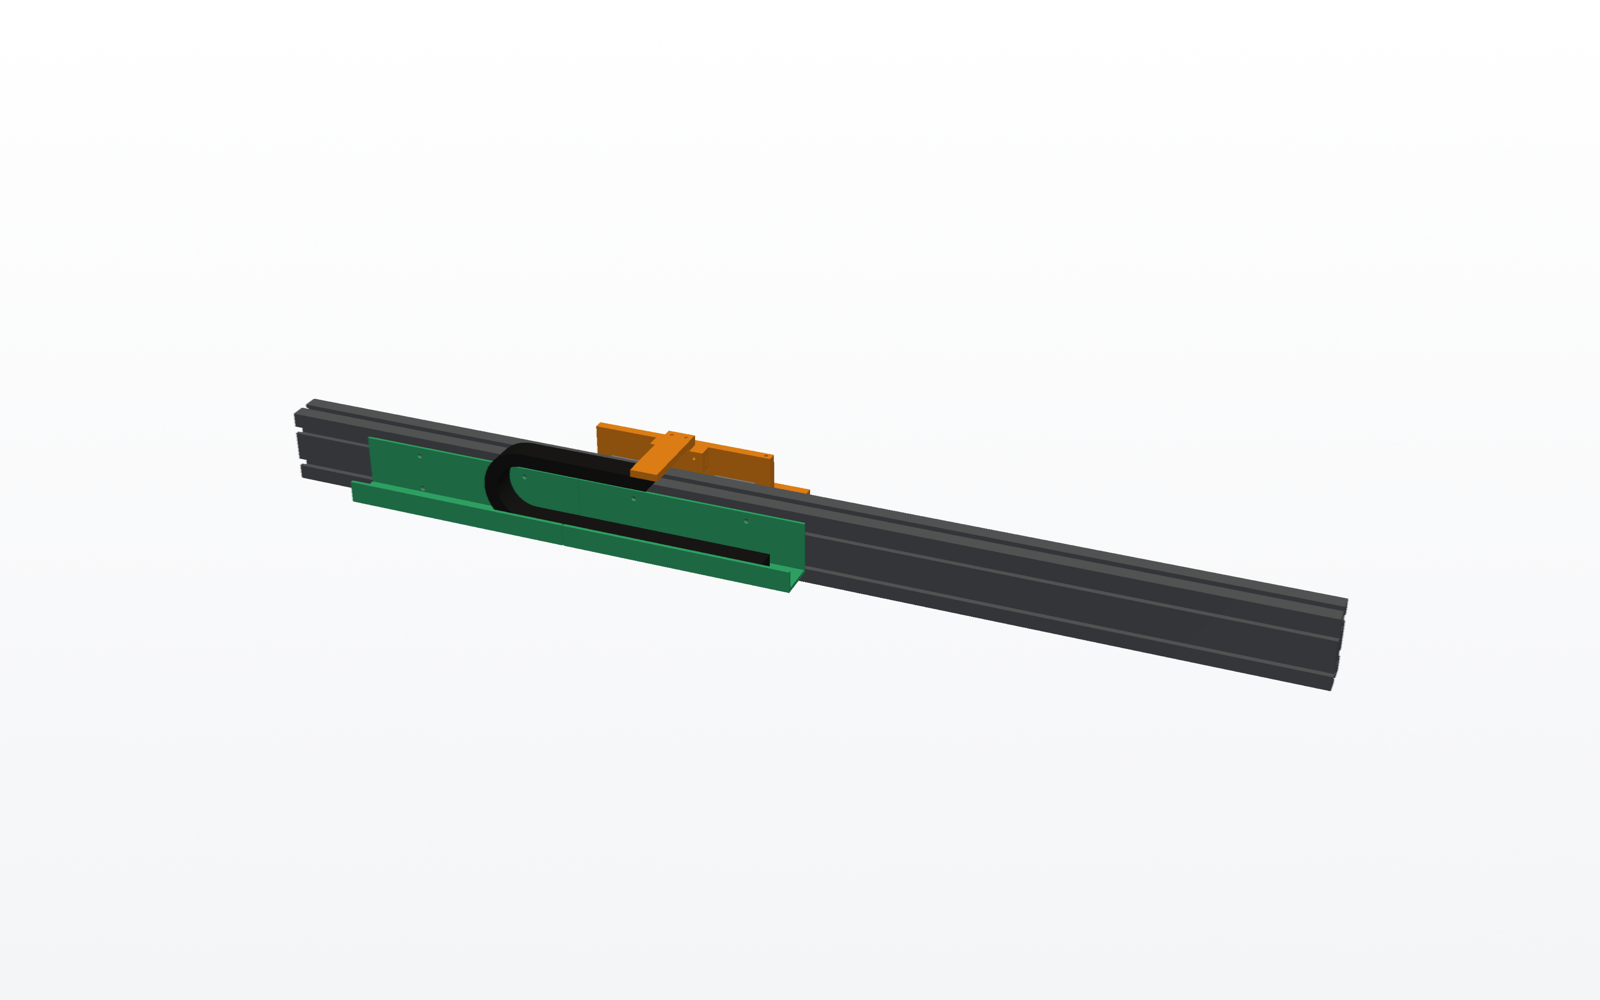
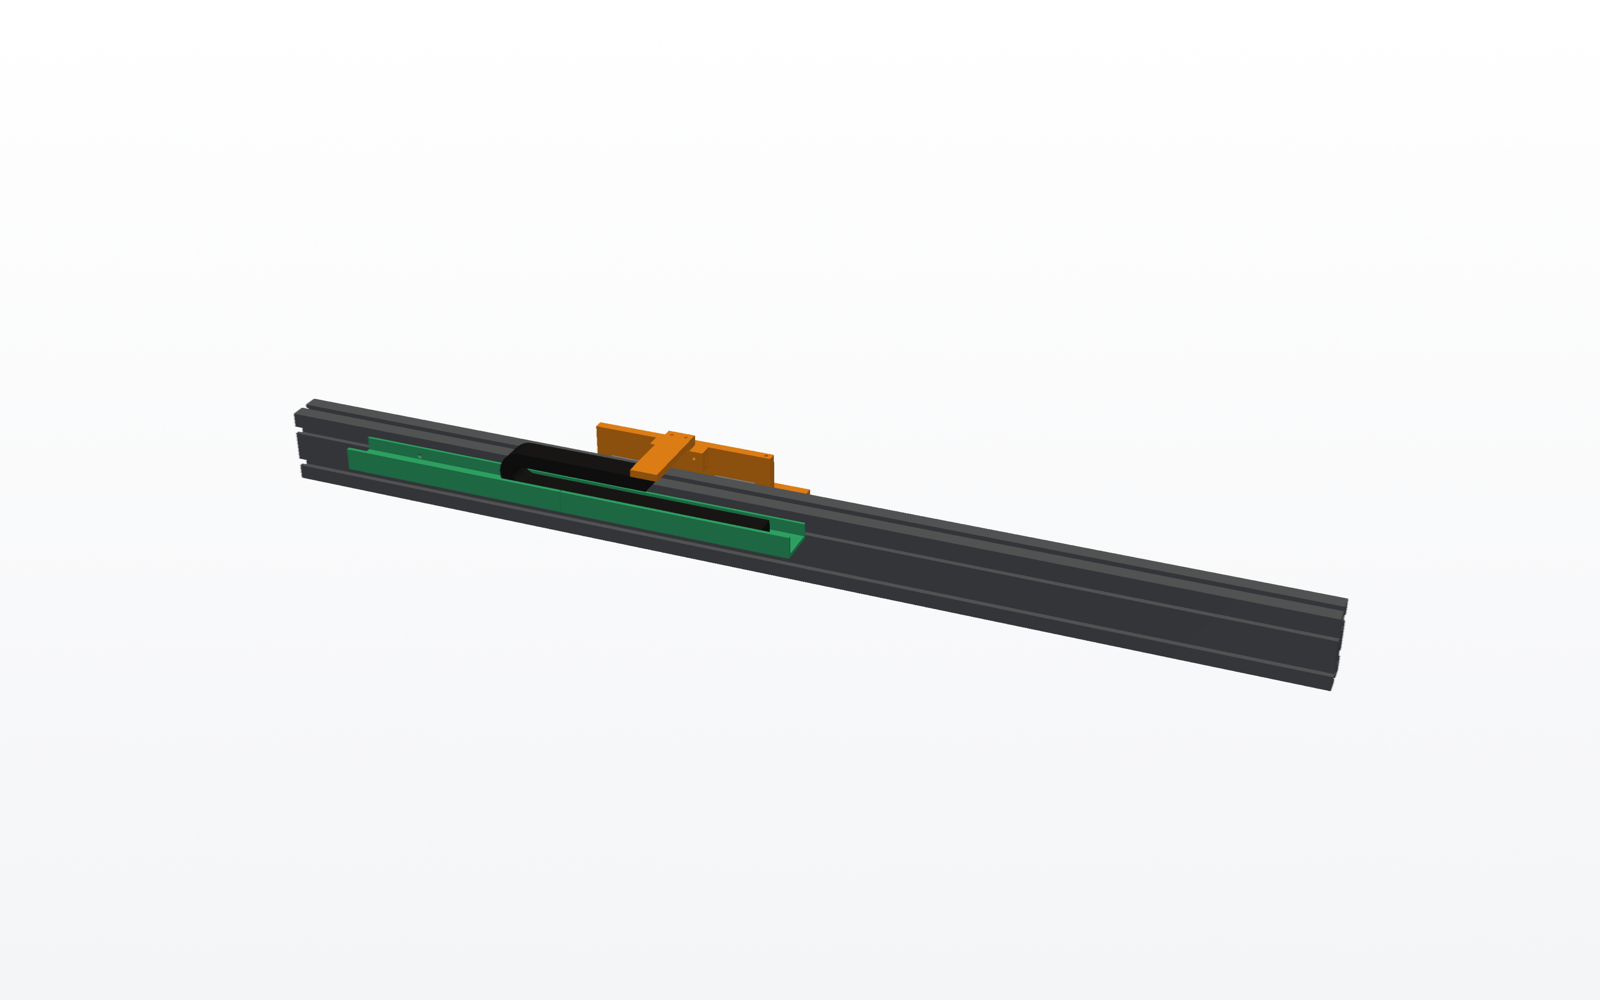
Lista de compra en Amazon UK y cadena portacables con radio comercial R18

Changed region(s): [[0.2188, 0.434, 0.5, 0.589]]

diff --git a/cad/motion.py b/cad/motion.py
@@ -117,25 +117,32 @@ def y_encoder_parts():
 
 # --- Cadena portacables ------------------------------------------------------
 
-TRAY_Z0 = P.RAIL_Z[0] - 8
-CHAIN_Z0 = TRAY_Z0 + 4
+# La altura se calcula desde el brazo del carro hacia abajo: el tramo superior
+# de la cadena pasa justo bajo el brazo, y la bandeja queda a la altura que
+# pida el radio de curvatura.
+CHAIN_TOP = TOP + 2                          # cara superior del tramo superior
+CHAIN_ZC = CHAIN_TOP - P.CHAIN_R - P.CHAIN_H / 2
+CHAIN_Z0 = CHAIN_ZC - P.CHAIN_R - P.CHAIN_H / 2
+TRAY_Z0 = CHAIN_Z0 - 4
+TRAY_TOP = max(TRAY_Z0 + 18, P.RAIL_Z[1] + 10)
 
 
 def tray_segment(x0, x1):
-    flange = box(x0, x1, YB - 3, YB, TRAY_Z0, P.RAIL_Z[1] + 10)
+    flange = box(x0, x1, YB - 3, YB, TRAY_Z0, TRAY_TOP)
     shelf = box(x0, x1, P.CHAIN_Y[0] - 7, YB, TRAY_Z0, TRAY_Z0 + 4)
     lip = box(x0, x1, P.CHAIN_Y[0] - 7, P.CHAIN_Y[0] - 3, TRAY_Z0, TRAY_Z0 + 24)
     body = flange.union(shelf).union(lip)
     for fx in (0.25, 0.75):
-        for z in P.RAIL_Z:
-            body = body.cut(rod_y(YB - 4, YB + 1, x0 + fx * (x1 - x0), z, 5.5))
+        for z in P.RAIL_Z:      # M5 a las ranuras traseras de la viga que caen en el ala
+            if TRAY_Z0 + 5 < z < TRAY_TOP - 5:
+                body = body.cut(rod_y(YB - 4, YB + 1, x0 + fx * (x1 - x0), z, 5.5))
     return body
 
 
 def chain(cx):
     """Cadena en la posición del carro cx: tramo inferior, curva y tramo superior."""
     r_in, r_out = P.CHAIN_R - P.CHAIN_H / 2, P.CHAIN_R + P.CHAIN_H / 2
-    zc = CHAIN_Z0 + P.CHAIN_H / 2 + P.CHAIN_R
+    zc = CHAIN_ZC
     # Tramo recto total fijo: con el carro en X_MIN la curva queda justo en el carro
     straight = P.CHAIN_FIX_X - P.CARRIAGE_X_MIN
     xb = (P.CHAIN_FIX_X + cx - straight) / 2
@@ -151,8 +158,7 @@ def chain(cx):
 
 
 def chain_arm(cx=0.0):
-    zc = CHAIN_Z0 + P.CHAIN_H / 2 + P.CHAIN_R
-    z_top_chain = zc + P.CHAIN_R + P.CHAIN_H / 2
+    z_top_chain = CHAIN_TOP
     y_clamp = P.BELT_FRONT_Y - 9
     riser = box(cx - 15, cx + 15, y_clamp, PY0, TOP, z_top_chain + 9)
     arm = box(cx - 15, cx + 15, P.CHAIN_Y[0] - 3, y_clamp, z_top_chain + 1, z_top_chain + 9)

diff --git a/cad/params.py b/cad/params.py
@@ -103,7 +103,7 @@ ENC_STRIP_X = (-545, 545)
 ENC_SENSOR_Z = (72, 90)
 GRIT_SHAFT_OUT_L = 13       # el eje del rodillo sale por fuera de la placa izquierda (encoder Y)
 CHAIN_W, CHAIN_H = 27, 15   # cadena portacables exterior (interior 10 x 20)
-CHAIN_R = 38                # radio de curvatura a eje
+CHAIN_R = 18                # radio de curvatura (cadenas 10 x 20 comerciales: R18)
 CHAIN_FIX_X = 5             # anclaje fijo, centro del recorrido
 CHAIN_Y = (-187, -160)
 CHAIN_TRAY_X = (-470, 40)

diff --git a/docs/compra_amazon_uk.md b/docs/compra_amazon_uk.md
@@ -1,0 +1,74 @@
+# Compra en Amazon UK (fases 0 y 1)
+
+Búsqueda hecha en amazon.co.uk el 31/10/2026. Los precios cambian a diario y
+son los que mostraba la página ese día; compruébalos antes de comprar. No
+incluye lo que ya tienes de impresoras 3D (placa de control, Raspberry Pi,
+motores, correas de 6 mm, poleas de 20 dientes, ruedas en V).
+
+Las cantidades salen de las listas generadas desde el modelo
+([fase 0](compra_fase0.md), [fase 1](compra_fase1.md)).
+
+## Lo que conviene NO comprar en Amazon
+
+| Pieza | Problema en Amazon | Alternativa en Reino Unido |
+|---|---|---|
+| Perfiles de 1060–1140 mm (4040, 4080 o V-slot) | Solo hay barras de hasta 1000 mm, y caras (4040 1000 mm x2: £80) | Proveedores que cortan a medida: **KJN** (perfil 40 de ranura 8) u **Ooznest** (V-slot, ruedas y excéntricas) |
+| Ejes de acero Ø12 y Ø8 de ~1,2 m | £49 el de Ø12 y £52 dos de Ø8 | Barra calibrada (*bright mild steel*, EN1A) cortada a medida en un almacén de metal (p. ej. Metals4U): unas pocas libras |
+| Tubo de aluminio Ø25 de ~1,2 m (ejes de rollos y guías) | Solo tramos cortos | Almacén de metal o tienda de bricolaje |
+| MDF de 19 mm | — | B&Q, Wickes o almacén de madera (lo cortas tú) |
+| Cinta de encoder 180 LPI y AS5047P | No aparecen en Amazon UK | eBay o AliExpress; la cinta y el sensor también se sacan de impresoras rotas |
+
+## Estructura
+
+| Pieza | Cant. necesaria | Producto | Precio |
+|---|---:|---|---:|
+| Escuadras 4040 en L | 8 | [12 uds, 4040, 90°](https://www.amazon.co.uk/dp/B0FR48JBXX) | £12.49 |
+| Tuercas en T M8, serie 40 | ~30 | [TA-VIGOR M8 con muelle](https://www.amazon.co.uk/dp/B0FHHM3DDB) | £8.13 |
+| Tuercas en T M5, serie 40 | ~30 | [TA-VIGOR M5 con muelle](https://www.amazon.co.uk/dp/B0FHHQHTV8) | £7.29 |
+
+## Movimiento X (si se usan guías lineales)
+
+| Pieza | Cant. necesaria | Producto | Precio |
+|---|---:|---|---:|
+| Guía MGN12 1000 mm + patín MGN12H | 2 guías, 4 patines | [CNCMANS MGN12 1000 mm con MGN12H](https://www.amazon.co.uk/dp/B0C8MKJP59) | £18.33 c/u |
+| Correa GT2 10 mm + poleas 20T y locas | 1 kit | [5 m GT2 10 mm + 6 poleas 20T + 4 locas](https://www.amazon.co.uk/dp/B0C54ZXM88) | £22.99 |
+
+Con ruedas en V no hacen falta las guías: ver la pregunta del perfil más abajo.
+Cada guía de ese enlace trae **un** patín; el diseño lleva dos por guía, así que
+habría que comprar 2 patines sueltos o adaptar el carro a uno por guía.
+
+## Arrastre Y y rollos
+
+| Pieza | Cant. necesaria | Producto | Precio |
+|---|---:|---|---:|
+| Polea GT2 80 dientes, eje 12 mm | 1 | [2 uds 80T, eje 12, correa 6 mm](https://www.amazon.co.uk/dp/B0DDB876RG) | £10.39 |
+| Correa GT2 cerrada 250 mm, 6 mm | 1 | [5 uds 250 mm](https://www.amazon.co.uk/dp/B0GVKNWVHH) | £6.69 |
+| Rodamiento 6001-2RS (12×28×8) | 2 | [HiPicco 4 uds](https://www.amazon.co.uk/dp/B0CH2XZGMW) | £6.64 |
+| Rodamiento 6005-2RS (25×47×12) | 4 | [HiPicco 4 uds](https://www.amazon.co.uk/dp/B0CH2X1NFJ) | £10.44 |
+| Rodamiento 625ZZ (5×16×5) | 6 | [TA-VIGOR 5 uds](https://www.amazon.co.uk/dp/B0F5XBKZSH) (x2), o los de ruedas en V que tengas | £5.69 |
+| Tubo Ø30 para el rodillo | 640 mm | [Tubo Ø30 × 2,5 mm, 1 m](https://www.amazon.co.uk/dp/B0FQTYM1NL) | £16.15 |
+
+## Mesa de vacío
+
+| Pieza | Cant. necesaria | Producto | Precio |
+|---|---:|---|---:|
+| Ventilador 80 mm 24 V | 4 | [ANVISION 2 uds, 8025, 24 V](https://www.amazon.co.uk/dp/B0C18G953Z) (x2) | £15.98 |
+
+## Electrónica (fase 1)
+
+| Pieza | Cant. necesaria | Producto | Precio |
+|---|---:|---|---:|
+| Fuente 24 V 350 W | 1 | [Mean Well LRS-350-24](https://www.amazon.co.uk/dp/B07SQLJG5L) | £42.16 |
+| Convertidor 24 V → 5 V 5 A | 1 | [Step-down 12/24 V a 5 V 5 A](https://www.amazon.co.uk/dp/B09X1XJYB6) | £10.99 |
+| Raspberry Pi Pico | 1 | [Raspberry Pi Pico](https://www.amazon.co.uk/dp/B0B5H2LNL2) | £5.42 |
+| Cadena portacables 10×20, 1 m | 1 | [Cadena 10×20 mm 1 m](https://www.amazon.co.uk/dp/B0DY5BWNW3) | £14.78 |
+
+Pendientes de buscar: sensor óptico de horquilla, TCRT5000, seta de emergencia,
+conector IEC con fusible, insertos térmicos y surtido de tornillería
+M3/M4/M5/M8.
+
+## Resumen orientativo
+
+Con guías MGN12, lo encontrado en Amazon UK suma unas **£300**, sin perfiles,
+ejes, tubos ni MDF. Con ruedas en V (las que tienes) se ahorran unas £75 de
+guías y patines.

diff --git a/docs/compra_fase1.md b/docs/compra_fase1.md
@@ -70,16 +70,16 @@ Masa estimada con PETG al ~60% del sólido. STL en `out/stl/`.
 | `final_x_bandera` | 1 | 1 | 1 |
 | `final_x_soporte` | 1 | 3 | 3 |
 | `encoder_y_soporte` | 1 | 7 | 7 |
-| `cadena_bandeja` | 2 | 81 | 162 |
+| `cadena_bandeja` | 2 | 58 | 116 |
 | `cadena_brazo` | 1 | 18 | 18 |
-| **Total** | | | **213 g** |
+| **Total** | | | **167 g** |
 
 ## Resumen
 
 | Concepto | € aprox. |
 |---|---:|
 | Material comprado | 133 |
-| Filamento (~0.2 kg a 20 €/kg) | 4 |
-| **Total fase 1** | **137** |
+| Filamento (~0.2 kg a 20 €/kg) | 3 |
+| **Total fase 1** | **136** |
 
 Las placas, la Raspberry Pi, los motores y las correas se cuentan a 0 € porque se reutilizan de impresoras 3D. No incluye cabezales ni tintas.
